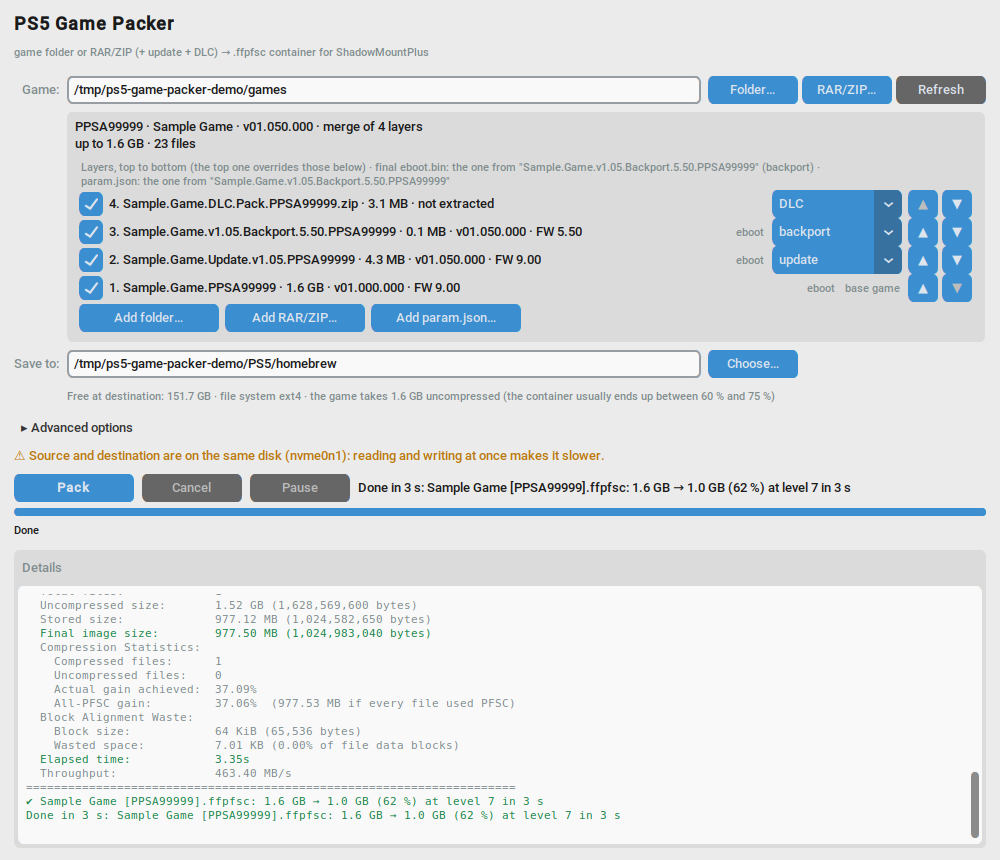
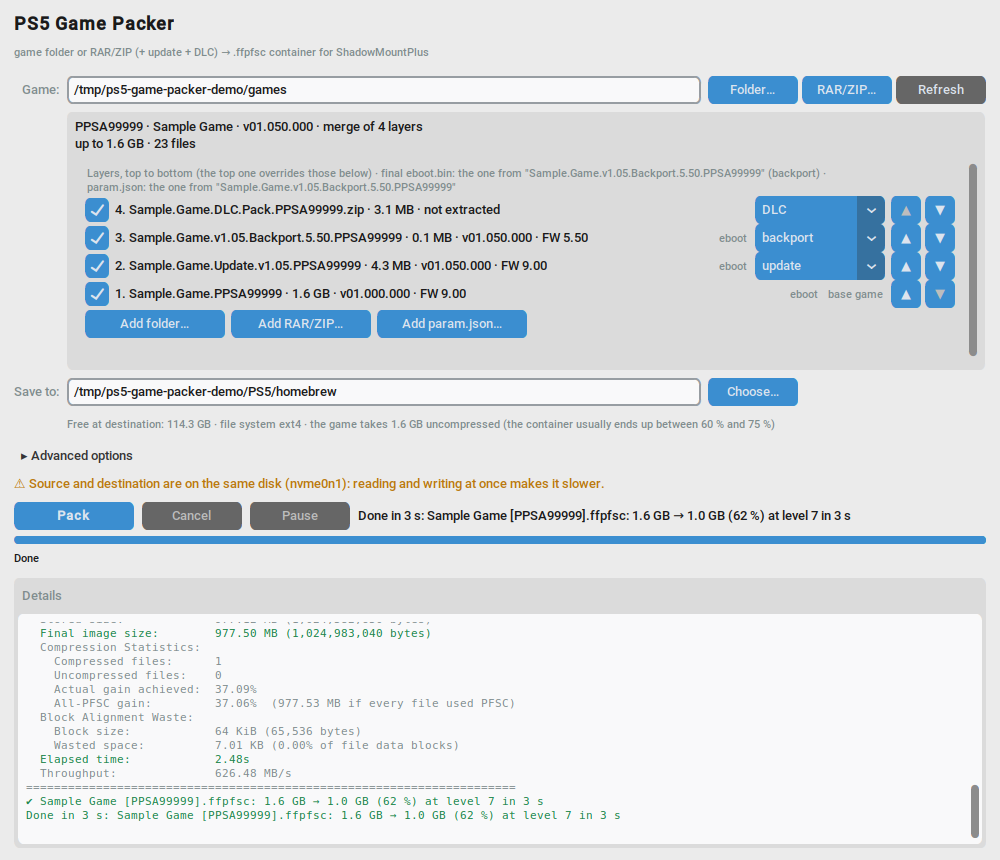
2.1.4: lone param.json as the fix, scrolling game list, DLC with eboot never a base

Changed region(s): [[0.0, 0.1814, 0.992, 0.7256], [0.217, 0.8767, 0.248, 0.907]]

diff --git a/ps5_game_packer/analysis.py b/ps5_game_packer/analysis.py
@@ -3,6 +3,7 @@
 """Scanning folders and archives: games, layers (update, backport, DLC) and warnings. Pure logic, no window."""
 from __future__ import annotations
 
+import hashlib
 import json
 import os
 import re
@@ -354,6 +355,12 @@ def analyze_item(item: Path, password: str, pkgs: list[str], notes: list[str], p
         if n.lower().endswith(".pkg"):
             pkgs.append(n)
             return None
+        if n.lower() == "param.json":  # a loose param.json next to the games: the fix for a broken one
+            state, param = validate_param_file(item)
+            if state != PARAM_OK:
+                notes.append(_("{name} is not a valid param.json: it has to be a JSON object with titleId.").format(name=n))
+                return None
+            return bare_param_layer(item, item.read_bytes().decode("utf-8-sig", errors="replace"), param)
         if not (is_archive(item) and is_first_volume(item)):
             return None
         item_password = password_for(item, password, passwords)
@@ -368,6 +375,12 @@ def analyze_item(item: Path, password: str, pkgs: list[str], notes: list[str], p
                         "ampr": False, "ampr_index": False, "item": n}
             notes.append(f"{n}: {error_text(info)}")
             return None
+        bare = info.get("bare_param")
+        if bare:  # an archive with nothing but a param.json
+            if bare.get("state") != PARAM_OK:
+                notes.append(_("{name} is not a valid param.json: it has to be a JSON object with titleId.").format(name=n))
+                return None
+            return bare_param_layer(item, bare["text"], bare["param"])
         pkgs += [f"{n} → {q}" for q in info.get("pkgs", [])]
         encrypted = bool(info.get("encrypted"))
         common = {"path": item, "virtual": True, "item": n, "encrypted": encrypted, "password": item_password if encrypted else ""}
@@ -413,6 +426,8 @@ def analyze_item(item: Path, password: str, pkgs: list[str], notes: list[str], p
     files, size = measure_folder(root)
     if files == 0:
         return None
+    if files == 1 and (root / "param.json").is_file():  # a folder with nothing but a loose param.json
+        return analyze_item(root / "param.json", password, pkgs, notes, passwords)
     state, param = param_state(root)
     m = ID_RE.search(title_id_of(param)) or ID_RE.search(n) or ID_RE.search(root.name)
     return {"path": root, "virtual": False, "subpath": "", "complete": False,
@@ -602,7 +617,10 @@ def group_layers(items: list[dict], notes: list[str]) -> list[dict]:
             notes.append(_("Ignored (cannot tell which game they belong to): {items}").format(items=", ".join(i["item"] for i in no_id)))
     jobs: list[dict] = []
     for tid, group in groups.items():
-        complete = [i for i in group if i["complete"]]
+        # An eboot.bin without param.json whose name says DLC, update or backport is a layer, never the base
+        # (a DLC with its own executable, packed alone, would give a container the console cannot run).
+        complete = [i for i in group if i["complete"] and not (
+            i.get("param", PARAM_OK) == PARAM_MISSING and (DLC_RE.search(i["item"]) or UPDATE_RE.search(i["item"]) or BACKPORT_RE.search(i["item"])))]
         if not complete:
             notes.append(_("{tid}: only an update/DLC was found ({items}); the base game is missing.")
                          .format(tid=tid, items=", ".join(i["item"] for i in group)))
@@ -727,6 +745,22 @@ def param_json_layer(file: Path, param: dict) -> dict:
             "files": 1, "bytes": size, "ampr": False, "ampr_index": False, "param": PARAM_OK,
             "item": f"{file.parent.name}/{file.name}" if file.parent.name else file.name,
             "temporary": True, "param_source": str(file)}
+
+
+def bare_param_layer(source: Path, text: str, param: dict) -> dict:
+    """A param.json found on its own (a loose file, or alone inside an archive or folder) becomes a layer like
+    `param_json_layer`. The cache folder is named after the ID and the source, so a rescan lands on the same one."""
+    tid = title_id_of(param)
+    tag = hashlib.sha1(str(source).encode("utf-8")).hexdigest()[:8]
+    folder = environment.CACHE_DIR / f"param-{clean_name(tid, 40) or 'game'}-{tag}"
+    (folder / "sce_sys").mkdir(parents=True, exist_ok=True)
+    (folder / "sce_sys" / "param.json").write_text(text, encoding="utf-8")
+    size = (folder / "sce_sys" / "param.json").stat().st_size
+    return {"path": folder, "virtual": False, "subpath": "", "complete": False, "title_id": tid,
+            "name": game_title(param), "version": str(param.get("contentVersion") or ""),
+            "req_fw": str(param.get("requiredSystemSoftwareVersion") or ""), "has_eboot": False,
+            "files": 1, "bytes": size, "ampr": False, "ampr_index": False, "param": PARAM_OK,
+            "item": source.name, "temporary": True, "param_only": True, "param_source": str(source)}
 
 
 def delete_temp_layer(layer: dict) -> None:

diff --git a/tests/test_analysis.py b/tests/test_analysis.py
@@ -171,11 +171,19 @@ def test_duplicates_and_layers_without_base(tmp_path):
     sg.make_update(alone / f"Update.{sg.TITLE_ID}")
     jobs, notes = analyze_folder(alone, "")
     assert len(jobs) == 1 and jobs[0]["version"] == "01.050.000"
-    # a DLC without the base game cannot be packed
+    # a DLC without the base game cannot be packed, even when it brings its own eboot.bin (and no param.json)
     alone_dlc = tmp_path / "alone-dlc"
     sg.make_dlc_zip(alone_dlc / f"DLC.{sg.TITLE_ID}.zip")
     jobs, notes = analyze_folder(alone_dlc, "")
     assert jobs == [] and any("base game is missing" in n for n in notes)
+    with_eboot = tmp_path / "alone-dlc-eboot"
+    sg.make_dlc_zip(with_eboot / f"Game.DLC.Addon.{sg.TITLE_ID}.zip", with_eboot=True)
+    jobs, notes = analyze_folder(with_eboot, "")
+    assert jobs == [] and any("base game is missing" in n for n in notes)
+    # next to the base it is a DLC layer, not a second game
+    sg.make_base(with_eboot / f"Game.{sg.TITLE_ID}")
+    jobs, notes = analyze_folder(with_eboot, "")
+    assert len(jobs) == 1 and [c["role"] for c in jobs[0]["layers"]] == [ROLE_BASE, ROLE_DLC], notes
 
 
 def test_archives_in_subfolders(tmp_path):
@@ -437,3 +445,46 @@ def test_lone_param_joins_unreadable_game(tmp_path):
     sg.make_dlc_zip(dlc / "Other.Game.DLC.PPSA11111.zip", inner_folder="PPSA11111-app")
     jobs, notes = analyze_folder(dlc, "")
     assert len(jobs) == 1 and jobs[0]["param"] == PARAM_BROKEN and any("base game is missing" in n for n in notes)
+
+
+def test_bare_param_zip_file_and_folder(tmp_path):
+    # a param.zip with a loose param.json, a loose param.json file, or a folder with only one: all become the fix
+    import zipfile
+    games = tmp_path / "games"
+    sg.make_base(games / "Requiem", param="broken")
+    with zipfile.ZipFile(games / "param.zip", "w") as zf:
+        zf.writestr("param.json", sg.param_json("02.013.000", "0x0900000000000000"))
+    jobs, notes = analyze_folder(games, "")
+    assert len(jobs) == 1 and not notes, notes
+    j = jobs[0]
+    layer = j["layers"][1]
+    assert j["param"] == PARAM_OK and j["title_id"] == sg.TITLE_ID and j["version"] == "02.013.000"
+    assert layer["temporary"] and layer["param_only"] and layer["param_source"] == str(games / "param.zip")
+    assert layer["path"].parent == environment.CACHE_DIR and layer["path"].name.startswith(f"param-{sg.TITLE_ID}-")
+    assert (layer["path"] / "sce_sys" / "param.json").is_file()
+    # a rescan lands on the same cache folder (so the layers do not pile up)
+    again = analyze_folder(games, "")[0][0]["layers"][1]
+    assert again["path"] == layer["path"]
+    delete_temp_layer(layer)
+    assert not layer["path"].exists()
+    # loose file next to the game
+    loose = tmp_path / "loose"
+    sg.make_base(loose / "Requiem", param="missing")
+    (loose / "param.json").write_bytes(sg.param_json("01.000.000", "0x0900000000000000"))
+    jobs, notes = analyze_folder(loose, "")
+    assert len(jobs) == 1 and jobs[0]["param"] == PARAM_OK and jobs[0]["layers"][1]["item"] == "param.json", notes
+    delete_temp_layer(jobs[0]["layers"][1])
+    # folder holding only a loose param.json
+    sub = tmp_path / "sub"
+    sg.make_base(sub / "Requiem", param="missing")
+    (sub / "para").mkdir()
+    (sub / "para" / "param.json").write_bytes(sg.param_json("01.000.000", "0x0900000000000000"))
+    jobs, notes = analyze_folder(sub, "")
+    assert len(jobs) == 1 and jobs[0]["param"] == PARAM_OK and jobs[0]["layers"][1]["param_source"].endswith("para/param.json"), notes
+    delete_temp_layer(jobs[0]["layers"][1])
+    # a broken loose param.json is reported, not attached
+    bad = tmp_path / "bad"
+    sg.make_base(bad / "Requiem", param="missing")
+    (bad / "param.json").write_bytes(sg.BROKEN_PARAM_BYTES)
+    jobs, notes = analyze_folder(bad, "")
+    assert len(jobs) == 1 and jobs[0]["param"] == PARAM_MISSING and any("not a valid param.json" in n for n in notes)

diff --git a/ps5_game_packer/window.py b/ps5_game_packer/window.py
@@ -281,7 +281,8 @@ class Window(ctk.CTk):
         self.l_scan = ctk.CTkLabel(self.scan_frame, text=_("Choose a folder or an archive to scan it."),
                                    anchor="w", justify="left", wraplength=TEXT_WIDTH)
         self.l_scan.grid(row=0, column=0, sticky="ew", padx=8, pady=(6, 2))
-        self.scan_box = ctk.CTkFrame(self.scan_frame, fg_color="transparent")
+        # the list of games grows with its contents up to a share of the screen, then it scrolls
+        self.scan_box = ctk.CTkScrollableFrame(self.scan_frame, fg_color="transparent", height=1)
         self.scan_box.grid(row=1, column=0, sticky="ew", padx=4, pady=(0, 4))
         self.scan_box.grid_columnconfigure(0, weight=1)
 
@@ -567,6 +568,18 @@ class Window(ctk.CTk):
             child.destroy()
         self.checks = []
         self._password_cards = {}
+        self._fit_scan_box()
+
+    def _fit_scan_box(self) -> None:
+        """Sizes the list to its contents, up to 40 % of the screen; past that it scrolls."""
+        try:
+            self.update_idletasks()
+            scale = self.scan_box._get_widget_scaling()
+            need = sum(c.winfo_reqheight() + 4 for c in self.scan_box.winfo_children()) / scale
+            cap = max(160, int(self.winfo_screenheight() * 0.4 / scale))
+            self.scan_box.configure(height=max(1, min(int(need), cap)))
+        except tk.TclError:
+            pass
 
     def _source_changed(self, *_a) -> None:
         self._source_timer = None
@@ -719,6 +732,7 @@ class Window(ctk.CTk):
             self.settings["last_source"] = str(path.parent)
         else:
             self.settings["last_source"] = str(path.parent if len(games) == 1 and games[0]["path"] == path else path)
+        self._fit_scan_box()
         self._update_warnings()
 
     @staticmethod
@@ -900,6 +914,7 @@ class Window(ctk.CTk):
         analysis.recompute_totals(job)
         self._draw_layers(job, frame)
         self._refresh_description(job)
+        self._fit_scan_box()
         self._update_warnings()
 
     def _add_param(self, job: dict, frame: ctk.CTkFrame) -> None:

diff --git a/tests/test_listing.py b/tests/test_listing.py
@@ -108,3 +108,23 @@ def test_listing_as_program(tmp_path):
     r = subprocess.run([str(py), str(environment.LISTING), str(z)], capture_output=True, text=True, env=env, timeout=120)
     assert r.returncode == 0, r.stderr
     assert json.loads(r.stdout)["single_root"] == f"{sg.TITLE_ID}-app"
+
+
+def test_list_bare_param(tmp_path):
+    # an archive with nothing but a loose param.json (no sce_sys/): reported apart, with its contents
+    z = tmp_path / "param.zip"
+    with zipfile.ZipFile(z, "w") as zf:
+        zf.writestr("param.json", sg.param_json("02.013.000", "0x0900000000000000"))
+    info = _list(z)
+    assert info["ok"] and info["games"] == [] and info["bare_param"]["state"] == "ok"
+    assert info["bare_param"]["path"] == "param.json" and info["bare_param"]["param"]["titleId"] == sg.TITLE_ID
+    assert "02.013.000" in info["bare_param"]["text"]
+    z2 = tmp_path / "broken.zip"
+    with zipfile.ZipFile(z2, "w") as zf:
+        zf.writestr("stuff/param.json", sg.BROKEN_PARAM_BYTES)
+    assert _list(z2)["bare_param"]["state"] == "broken"
+    z3 = tmp_path / "two.zip"
+    with zipfile.ZipFile(z3, "w") as zf:
+        zf.writestr("param.json", sg.param_json("01.000.000", "0x0900000000000000"))
+        zf.writestr("readme.txt", "x")
+    assert _list(z3)["bare_param"] is None  # more than one file: not a bare param.json

diff --git a/ps5_game_packer/listing.py b/ps5_game_packer/listing.py
@@ -128,9 +128,22 @@ def summary(archive: Path, password: str = "") -> dict:
             if d not in params:
                 state, param = _param_of(source.subtree(d))
                 params[d] = {"state": state, "param": param}
+    # An archive holding nothing but a param.json (outside sce_sys): the fix people download for a broken game.
+    bare_param = None
+    loose = [p for p in paths if p.rsplit("/", 1)[-1] == "param.json" and not p.endswith("sce_sys/param.json")]
+    if len(paths) == 1 and len(loose) == 1:
+        folder, _sep, name = loose[0].rpartition("/")
+        try:
+            text = source.subtree(folder).read_bytes(name, limit=4 * 1024 * 1024).decode("utf-8-sig")
+            data = json.loads(text)
+            ok = isinstance(data, dict) and bool(str(data.get("titleId") or data.get("title_id") or "").strip())
+            bare_param = {"path": loose[0], "state": PARAM_OK if ok else PARAM_BROKEN, "param": data if ok else {}, "text": text}
+        except Exception:
+            bare_param = {"path": loose[0], "state": PARAM_BROKEN, "param": {}, "text": ""}
     return {
         "ok": True,
         "archive": str(archive),
+        "bare_param": bare_param,
         "kind": source.kind,
         "encrypted": bool(source.encrypted),
         "solid": bool(source.solid),

diff --git a/tests/test_window.py b/tests/test_window.py
@@ -423,3 +423,22 @@ def test_ticks_and_param_survive_rescan(tmp_path):
         assert not list(environment.CACHE_DIR.glob("param-PPSA99998*"))
     finally:
         w.destroy()
+
+
+def test_long_list_scrolls(tmp_path):
+    # many games: the list stops growing at 40 % of the screen and scrolls, so the buttons stay on screen
+    from ps5_game_packer import window
+    for i in range(8):  # eight different games (a different titleId inside each param.json)
+        root = tmp_path / "games" / f"Game{i}.PPSA9999{i}"
+        sg.make_base(root)
+        (root / "sce_sys" / "param.json").write_bytes(sg.param_json("01.000.000", "0x0900000000000000").replace(sg.TITLE_ID.encode(), f"PPSA9999{i}".encode()))
+    w = _open(window, {"source": str(tmp_path / "games"), "destination": str(tmp_path)})
+    try:
+        _spin(w, 30, until=lambda: len(w.games) == 8)
+        _spin(w, 0.5)
+        height = int(w.scan_box.cget("height"))
+        assert 100 < height <= int(w.winfo_screenheight() * 0.4 / w.scan_box._get_widget_scaling()) + 1
+        assert len(w.checks) == 8 and len(w.scan_box.winfo_children()) >= 16
+        assert w.b_pack.winfo_rooty() < w.winfo_screenheight()  # the Pack button is on screen
+    finally:
+        w.destroy()

diff --git a/ps5_game_packer/__init__.py b/ps5_game_packer/__init__.py
@@ -2,4 +2,4 @@
 # Copyright (C) 2026 raiddevel
 """PS5 Game Packer: a CustomTkinter front end for MkPFS (.ffpfsc containers for ShadowMountPlus)."""
 
-__version__ = "2.1.3"
+__version__ = "2.1.4"

diff --git a/CHANGELOG.md b/CHANGELOG.md
@@ -1,9 +1,15 @@
 # Changes
 
-## Unreleased
+## 2.1.4 - 2026-10-13
 
-- A folder or RAR/ZIP holding only a `sce_sys/param.json`, next to a single game whose own `param.json` cannot be
-  read, is attached to that game automatically, even when only the archive name carries the TITLE_ID.
+- A `param.json` on its own, as a loose file, alone inside a RAR/ZIP (even without the `sce_sys/` folder) or alone in
+  a folder, is picked up as the fix for the game whose `sce_sys/param.json` is broken or missing: it goes on top as
+  a layer, and the game takes its TITLE_ID, title and version.
+- The list of games grows only up to 40 % of the screen and then scrolls, so the password cards, the destination
+  and the "Pack" button stay visible on small screens even with many games.
+- A DLC, update or backport that brings its own `eboot.bin` but no `param.json` is never taken as the base game:
+  alone, it is reported as missing its base; next to the base, it is a layer.
+- The screenshot tool no longer touches the real settings.
 
 ## 2.1.3 - 2026-10-13
 

diff --git a/README.es.md b/README.es.md
@@ -23,7 +23,7 @@ través de un fork que le añade la lectura de archivos y las capas (ver [Cambio
 
 ## Instalación
 
-En Windows, descarga `ps5-game-packer-2.1.3-windows-x64.zip` de la
+En Windows, descarga `ps5-game-packer-2.1.4-windows-x64.zip` de la
 [página de versiones](https://github.com/raiddevel/ps5-game-packer/releases), descomprímelo donde quieras y abre
 `ps5-game-packer.exe`. La primera vez SmartScreen puede decir que protegió el PC porque el ejecutable no está
 firmado: "Más información" y "Ejecutar de todas formas". Si tu antivirus se queja del programa, que está hecho con

diff --git a/README.md b/README.md
@@ -23,7 +23,7 @@ through a fork that adds archive reading and layers (see [Changes to MkPFS](#cha
 
 ## Installation
 
-On Windows, download `ps5-game-packer-2.1.3-windows-x64.zip` from the
+On Windows, download `ps5-game-packer-2.1.4-windows-x64.zip` from the
 [releases page](https://github.com/raiddevel/ps5-game-packer/releases), unzip it anywhere and open
 `ps5-game-packer.exe`. The first time, SmartScreen may say it protected your PC because the executable is not signed:
 "More info", then "Run anyway". If your antivirus complains about the program, which is built with PyInstaller, add
